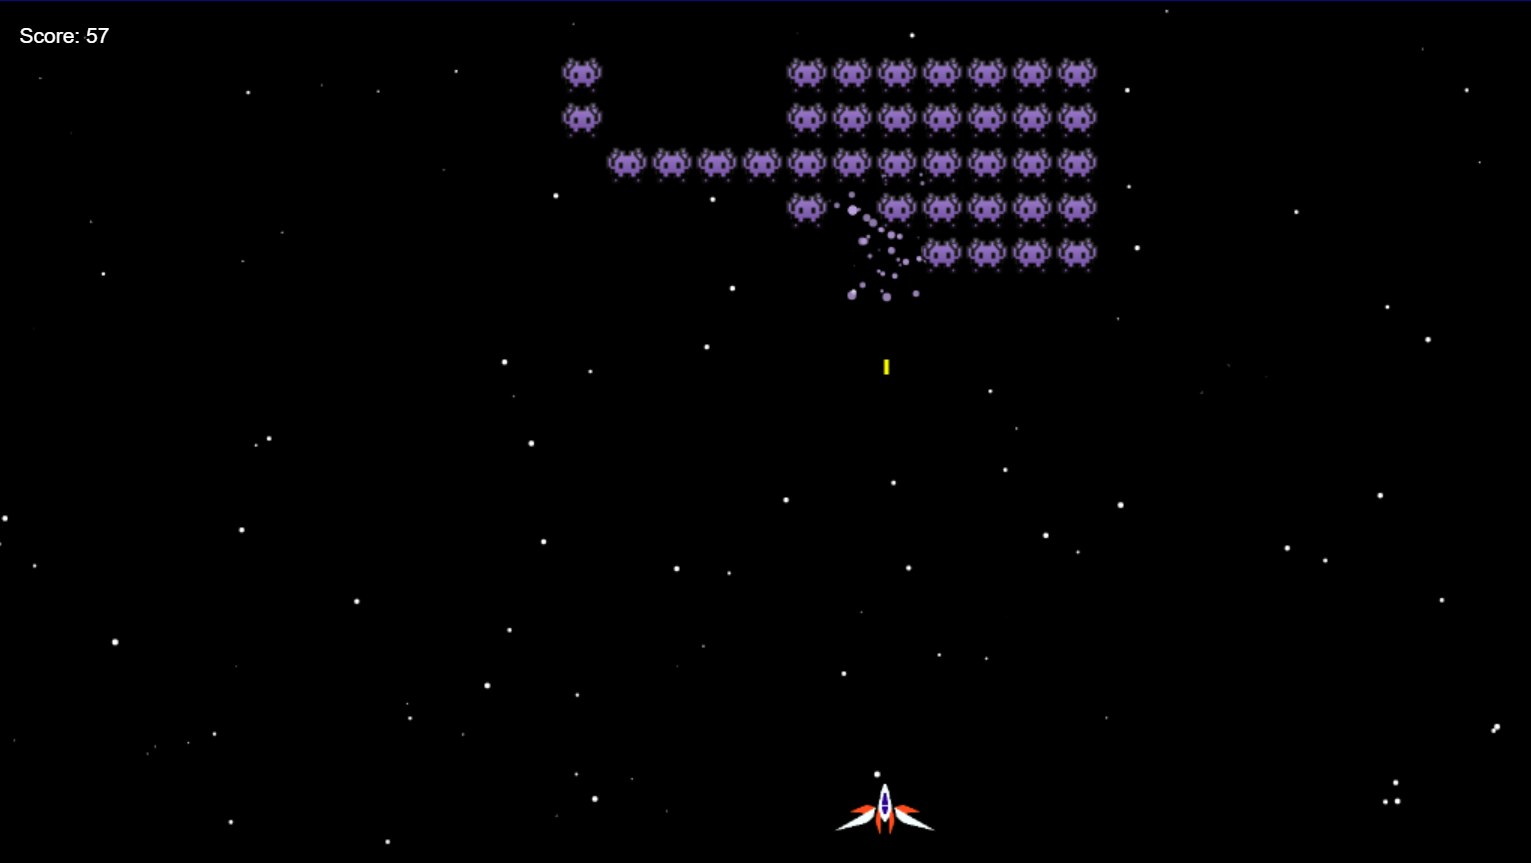
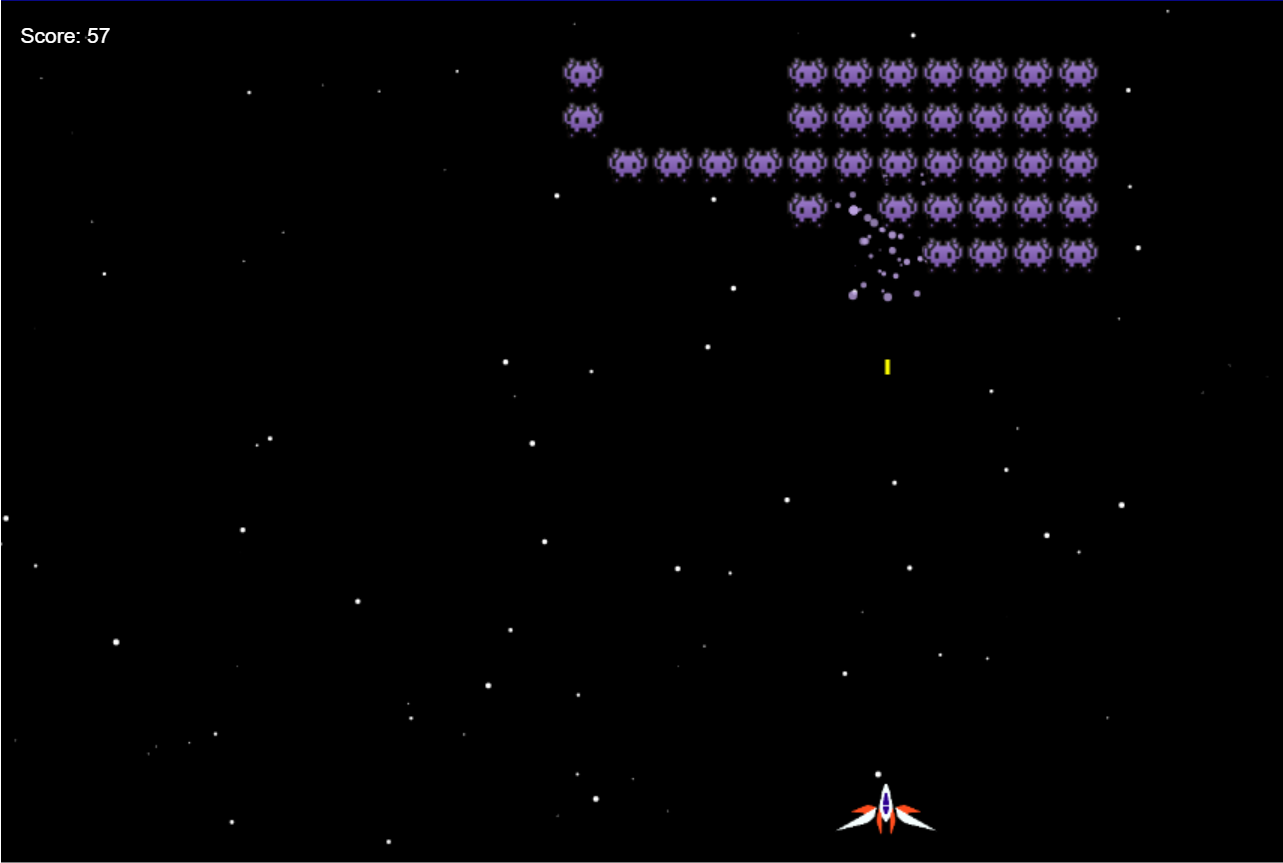
padding x added

diff --git a/src/App.css b/src/App.css
@@ -15,7 +15,7 @@
 }
 
 .App{
-    padding: 0.5rem 3.1rem;
+    padding: 0.5rem 9rem;
     overflow: hidden;
     color: var(--black);
     background: var(--background);
@@ -41,6 +41,6 @@
 
 @media screen and (max-width: 520px) {
   .App {
-    padding: 0.5 rem 1 rem;
+    padding: 0.5 rem 1rem;
   }
 }

diff --git a/src/pages/Portfolio/Portfolio.jsx b/src/pages/Portfolio/Portfolio.jsx
@@ -18,8 +18,8 @@ export default class SimpleSlider extends Component {
       dots: true,
       infinite: false,
       speed: 500,
-      slidesToShow: 2,
-      slidesToScroll: 2,
+      slidesToShow: 1,
+      slidesToScroll: 1,
       initialSlide: 0,
       responsive: [
         {
